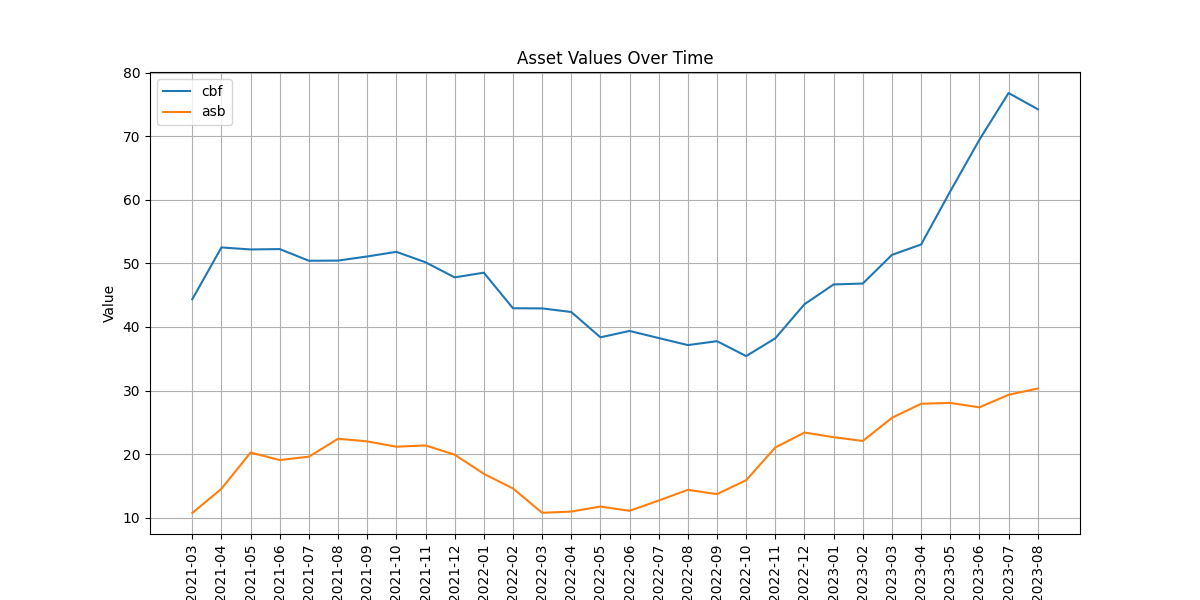
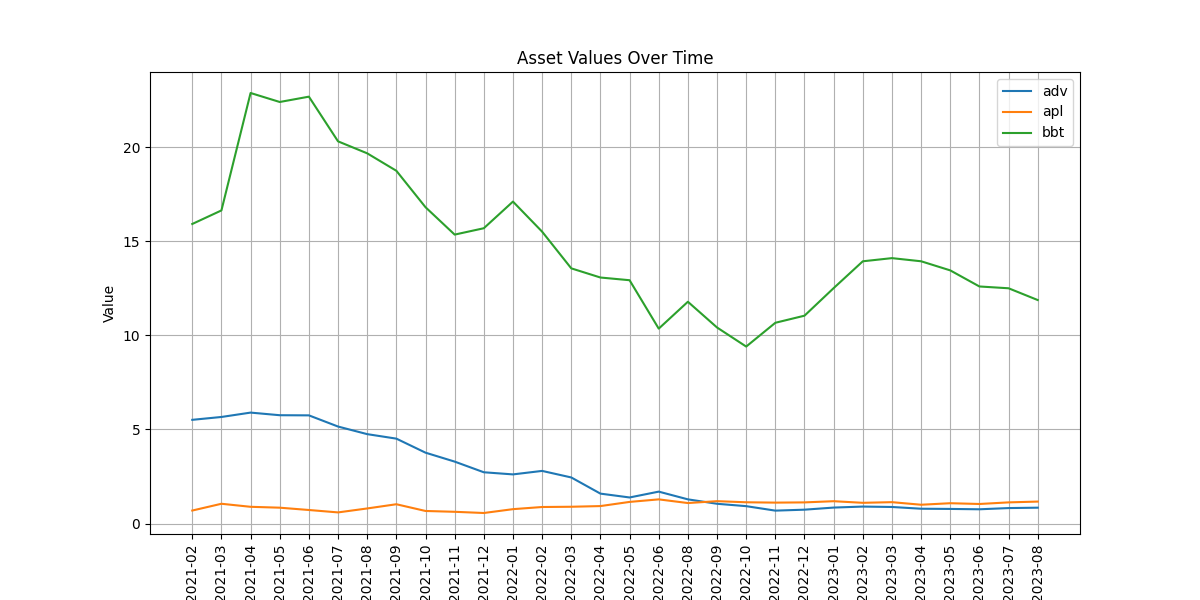
feat(view): add edit functionality for portfolios

diff --git a/templates/form.html b/templates/form.html
@@ -31,6 +31,9 @@
             <input type="submit" value="Create portfolio">
         </form>
     </div>
+    <button onclick="window.location.href='/edit';">
+        Edit Portfolios
+    </button>
 
     <script>
         $(document).ready(function() {

diff --git a/stock_market/settings.py b/stock_market/settings.py
@@ -21,12 +21,14 @@ BASE_DIR = Path(__file__).resolve().parent.parent
 # See https://docs.djangoproject.com/en/3.2/howto/deployment/checklist/
 
 # SECURITY WARNING: keep the secret key used in production secret!
-SECRET_KEY = getenv("SECRET_KEY")
+# SECRET_KEY = getenv("SECRET_KEY")
+SECRET_KEY = "/C0s%9\EwZ0xs{q[-8z(Os4tJGENb,M7^R]iO6O3N:#c!9Ct>_"
 
 # SECURITY WARNING: don't run with debug turned on in production!
 DEBUG = getenv("IS_DEVELOPMENT", True)
 
-ALLOWED_HOSTS = ["Portfolio-env.eba-8dm4ku9f.eu-west-3.elasticbeanstalk.com", "127.0.0.1", "15.236.9.35"]
+ALLOWED_HOSTS = [
+    "Portfolio-env.eba-8dm4ku9f.eu-west-3.elasticbeanstalk.com", "127.0.0.1", "15.236.9.35"]
 
 
 # Application definition

diff --git a/portfolio/models.py b/portfolio/models.py
@@ -17,6 +17,9 @@ class AssetValue(models.Model):
 class Portfolio(models.Model):
     name = models.CharField(max_length=50)
     assets = models.ManyToManyField(Asset, through='PortfolioAsset')
+    risk = models.FloatField()
+    retur = models.FloatField()
+    max_drawdown = models.FloatField()
 
     def __str__(self):
         return self.name

diff --git a/portfolio/views.py b/portfolio/views.py
@@ -43,6 +43,11 @@ def home(request):
     assets = Asset.objects.all()
     return render(request, 'form.html', {'assets': assets, 'asset_form': asset_form})
 
+# @api_view(['GET', 'POST'])
+# def edit(request):
+#     if request.method == 'GET':
+        
+
 def result(request):
     """
     Displays the results of portfolio creation.

diff --git a/stock_market/test.py b/stock_market/test.py
@@ -1,0 +1,9 @@
+import random
+import string
+
+def generate_secret_key(length=50):
+    characters = string.ascii_letters + string.digits + string.punctuation
+    secret_key = ''.join(random.choice(characters) for _ in range(length))
+    return secret_key
+
+print(generate_secret_key())

diff --git a/portfolio/urls.py b/portfolio/urls.py
@@ -5,4 +5,5 @@ from . import views
 urlpatterns = [
     path('', views.home, name='home'),
     path('result/', views.result, name='result'), 
+    # path('edit/', views.edit, name='edit'), 
 ]
